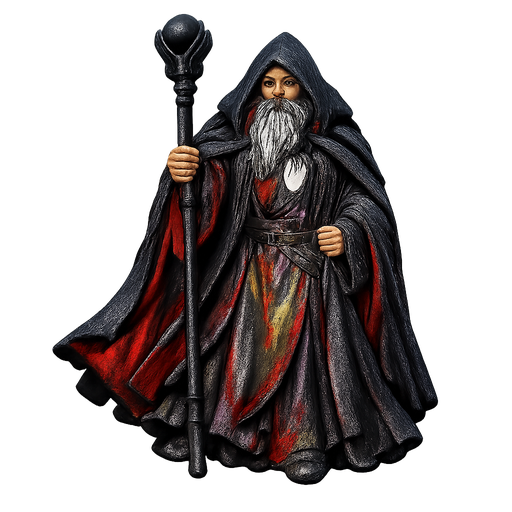
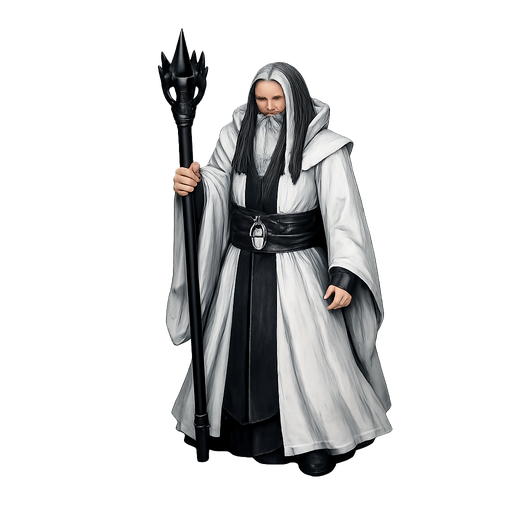
Saruman white again, told apart from Gandalf the White
Owner, 2026-11-18: "Saruman is now black and red; he must stay white, only
clearly different from Gandalf the White". Saruman wears cold white robes with
a tall collar, a broad black stripe down the front, a black sash with a small
white-hand emblem, white hair streaked with black and a black clawed staff; no
cloak, sword, blue or brown leather. Gandalf the White keeps his pale blue
cloak, white staff and sword, so on the map one reads white and black, the
other white and blue.

characters-v1 rebuilt (build_figure_art.py --check passes); the first pass
(black and crimson) and a cream first try are kept in rejected/. Release notes
and version for 0.11.0-rc.11.

diff --git a/unity/Wotr.Client/Assets/Wotr/Tests/PlayMode/WizardFigureTests.cs b/unity/Wotr.Client/Assets/Wotr/Tests/PlayMode/WizardFigureTests.cs
@@ -8,10 +8,11 @@ using Wotr.Contracts;
 
 namespace Wotr.PlayTests
 {
-    // ART-11 (owner, 2026-11-17: "Saruman's and Gandalf the White's figures are too alike; rework them"): Saruman stands dark,
-    // in black and crimson with an iridescent robe and a black staff, Gandalf the White bright, in white under a pale
-    // silver-blue cloak with a white staff and a sword; side by side on the map they are told apart at a glance.
-    // Frame: art11-wizards.
+    // ART-11 (owner, 2026-11-17: "Saruman's and Gandalf the White's figures are too alike; rework them"; 2026-11-18: "Saruman
+    // is now black and red; he must stay white, only clearly different from Gandalf the White"): Saruman stands in white
+    // with a broad black stripe down the front, a black sash and a black clawed staff, no cloak; Gandalf the White in white
+    // under a pale silver-blue cloak with a white staff and a sword. Side by side on the map they are told apart at a
+    // glance. Frame: art11-wizards.
     public sealed class WizardFigureTests
     {
         [UnityTest]

diff --git a/graphicalassets/figures/README.md b/graphicalassets/figures/README.md
@@ -121,3 +121,26 @@ beard, so on the map only the staff told them apart.
   - `saruman-white-robes`, `gandalf-white-like-saruman`: the old pair;
   - `gandalf-white-gold-halo`: a first new Gandalf with a gold halo around the figure.
 - **Check.** PlayMode `WizardFigureTests` sets both on the map near Orthanc (frame `art11-wizards`).
+
+<a id="saruman-white-again--art-11-second-pass-2026-11-18"></a>
+## Saruman white again — ART-11, second pass (2026-11-18)
+
+The owner: "Saruman is now black and red; he must stay white, only clearly different from Gandalf the White". Saruman
+keeps the white of his order and is told apart by everything but the robe's colour:
+
+- **Saruman** (Shadow):
+  - cold white robes with a tall stiff collar and wide sleeves;
+  - a black inner robe showing down the front in one broad black stripe;
+  - a black sash with a small white-hand emblem;
+  - white hair streaked with black;
+  - a black iron staff crowned with claw-like spikes;
+  - no cloak, no sword, no blue and no brown leather.
+- **Gandalf the White** is unchanged: a pale silver-blue cloak, a plain white staff, a sword on a brown belt.
+
+  On the map, Saruman reads as white and black, Gandalf as white and blue.
+- **Generation.** Same generator, model and style ([prompts](v3/prompts.json), [journal](v3/generations.jsonl)).
+  `scripts/build_figure_art.py` rebuilt `characters-v1`, and `--check` passes.
+- **Rejected** (in `rejected/`):
+  - `saruman-black-crimson`: the first pass;
+  - `saruman-ivory-robes`: a first white try whose robes read cream and whose beard was short.
+- **Unchanged.** The battle portraits.

diff --git a/release/notes/0.11.0-rc.11.md b/release/notes/0.11.0-rc.11.md
@@ -1,0 +1,1 @@
+- Changed: Saruman is white again, as he should be, and still easy to tell from Gandalf the White: Saruman wears white with a black stripe down the front and a black sash, and carries a black clawed staff; Gandalf the White keeps his pale blue cloak, white staff and sword.
